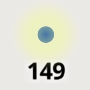
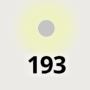
defaults, legend

Changed region(s): [[0.3111, 0.6, 0.7333, 0.8889], [0.4, 0.2222, 0.6222, 0.4889]]

diff --git a/projects/wpdx/src/app/rehab-prio/rp-state.service.ts b/projects/wpdx/src/app/rehab-prio/rp-state.service.ts
@@ -24,7 +24,7 @@ export class RpStateService {
     this.state.defaultValue('any_waterpoints', true);
     this.state.defaultValue('show_population_density', false);
     this.state.defaultValue('show_landcover', false);
-    this.state.defaultValue('show_point_counts', true);
+    this.state.defaultValue('show_point_counts', false);
     this.state.defaultValue('adman_view', 'unserved');
     this.state.defaultValue('show_adman_pies', true);
     this.state.defaultValue('show_adman_labels', true);
